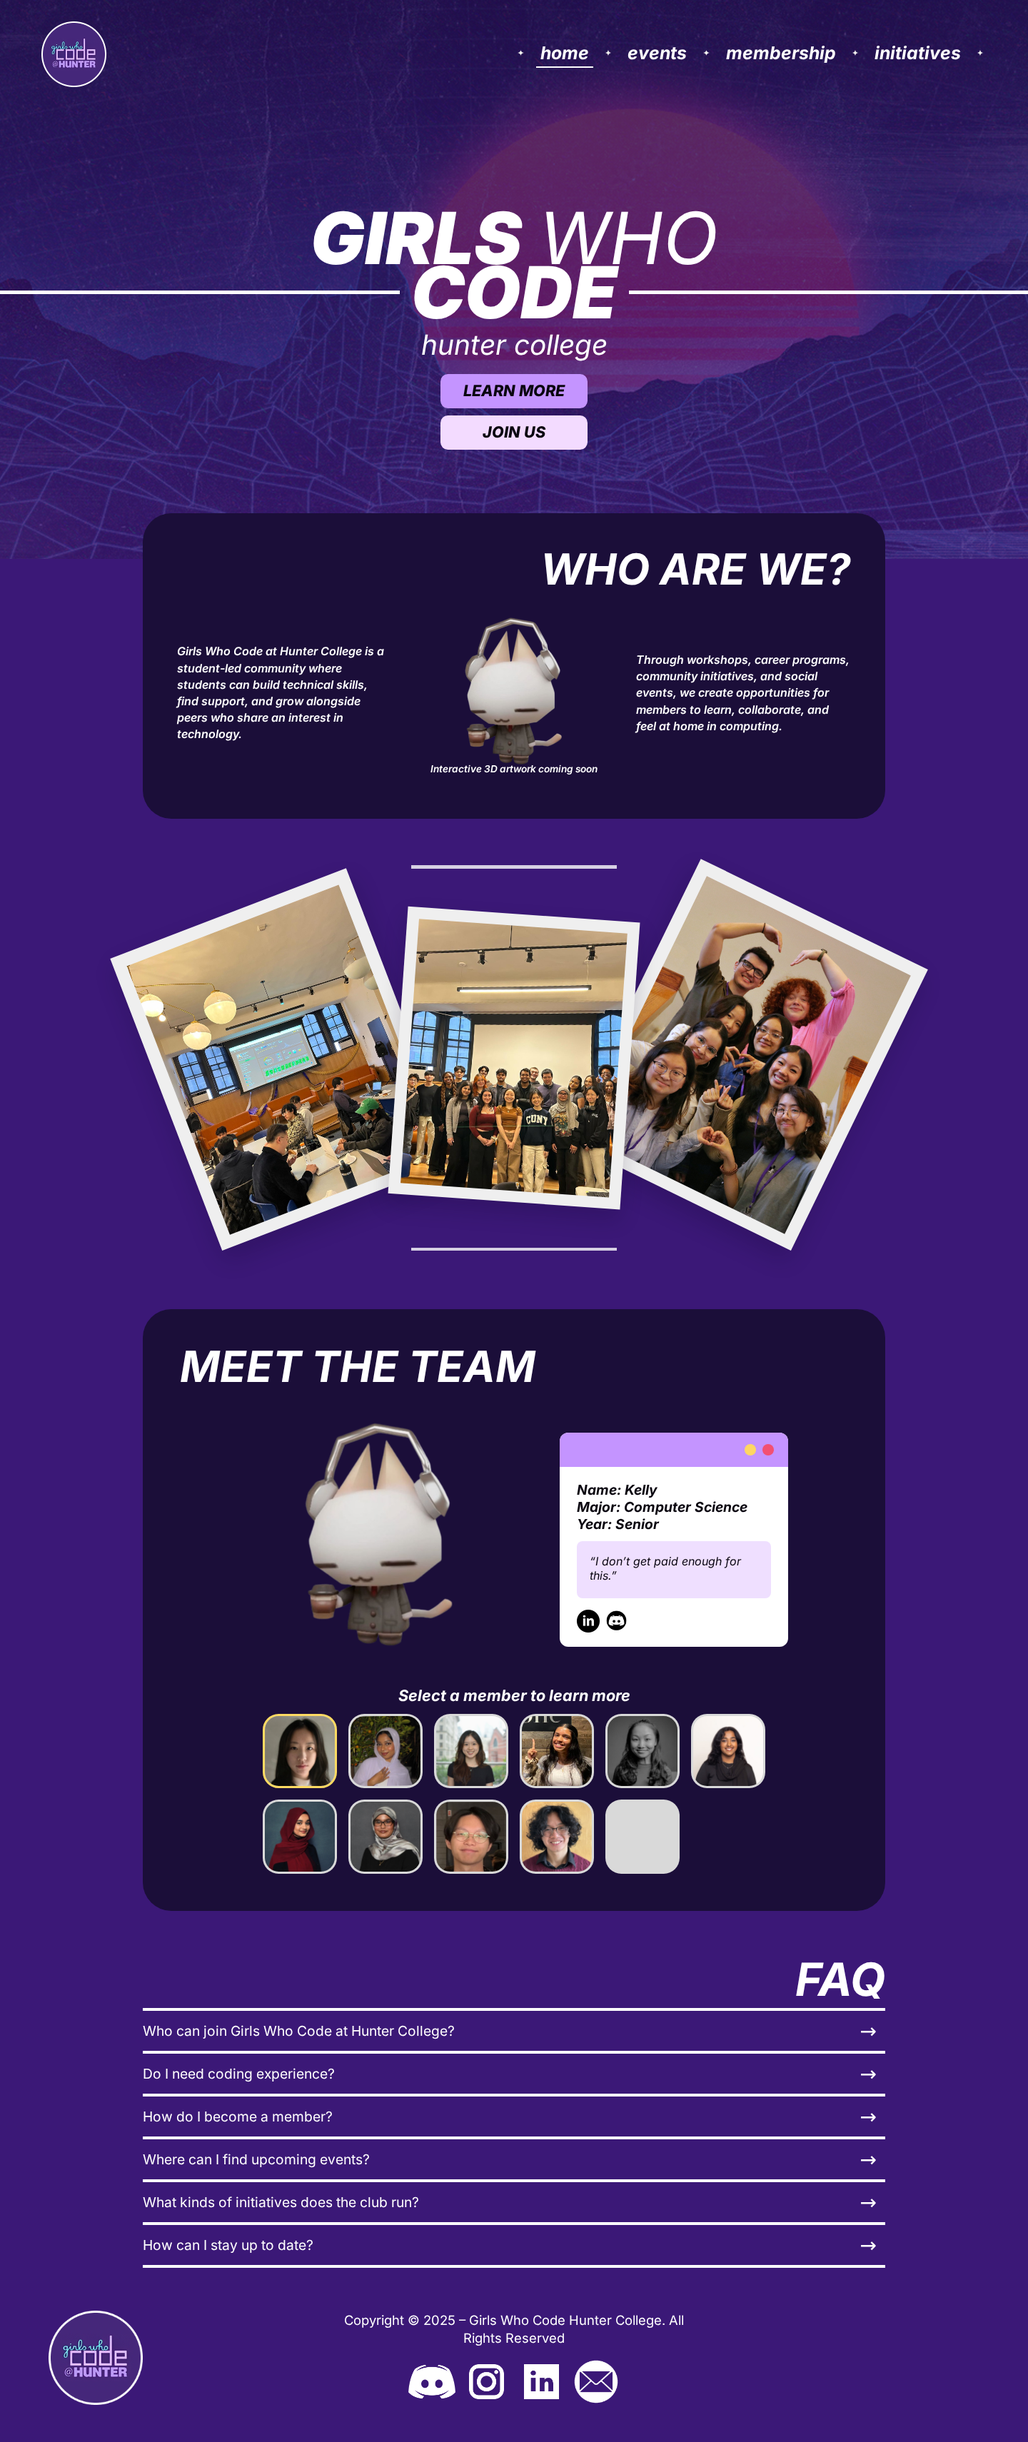
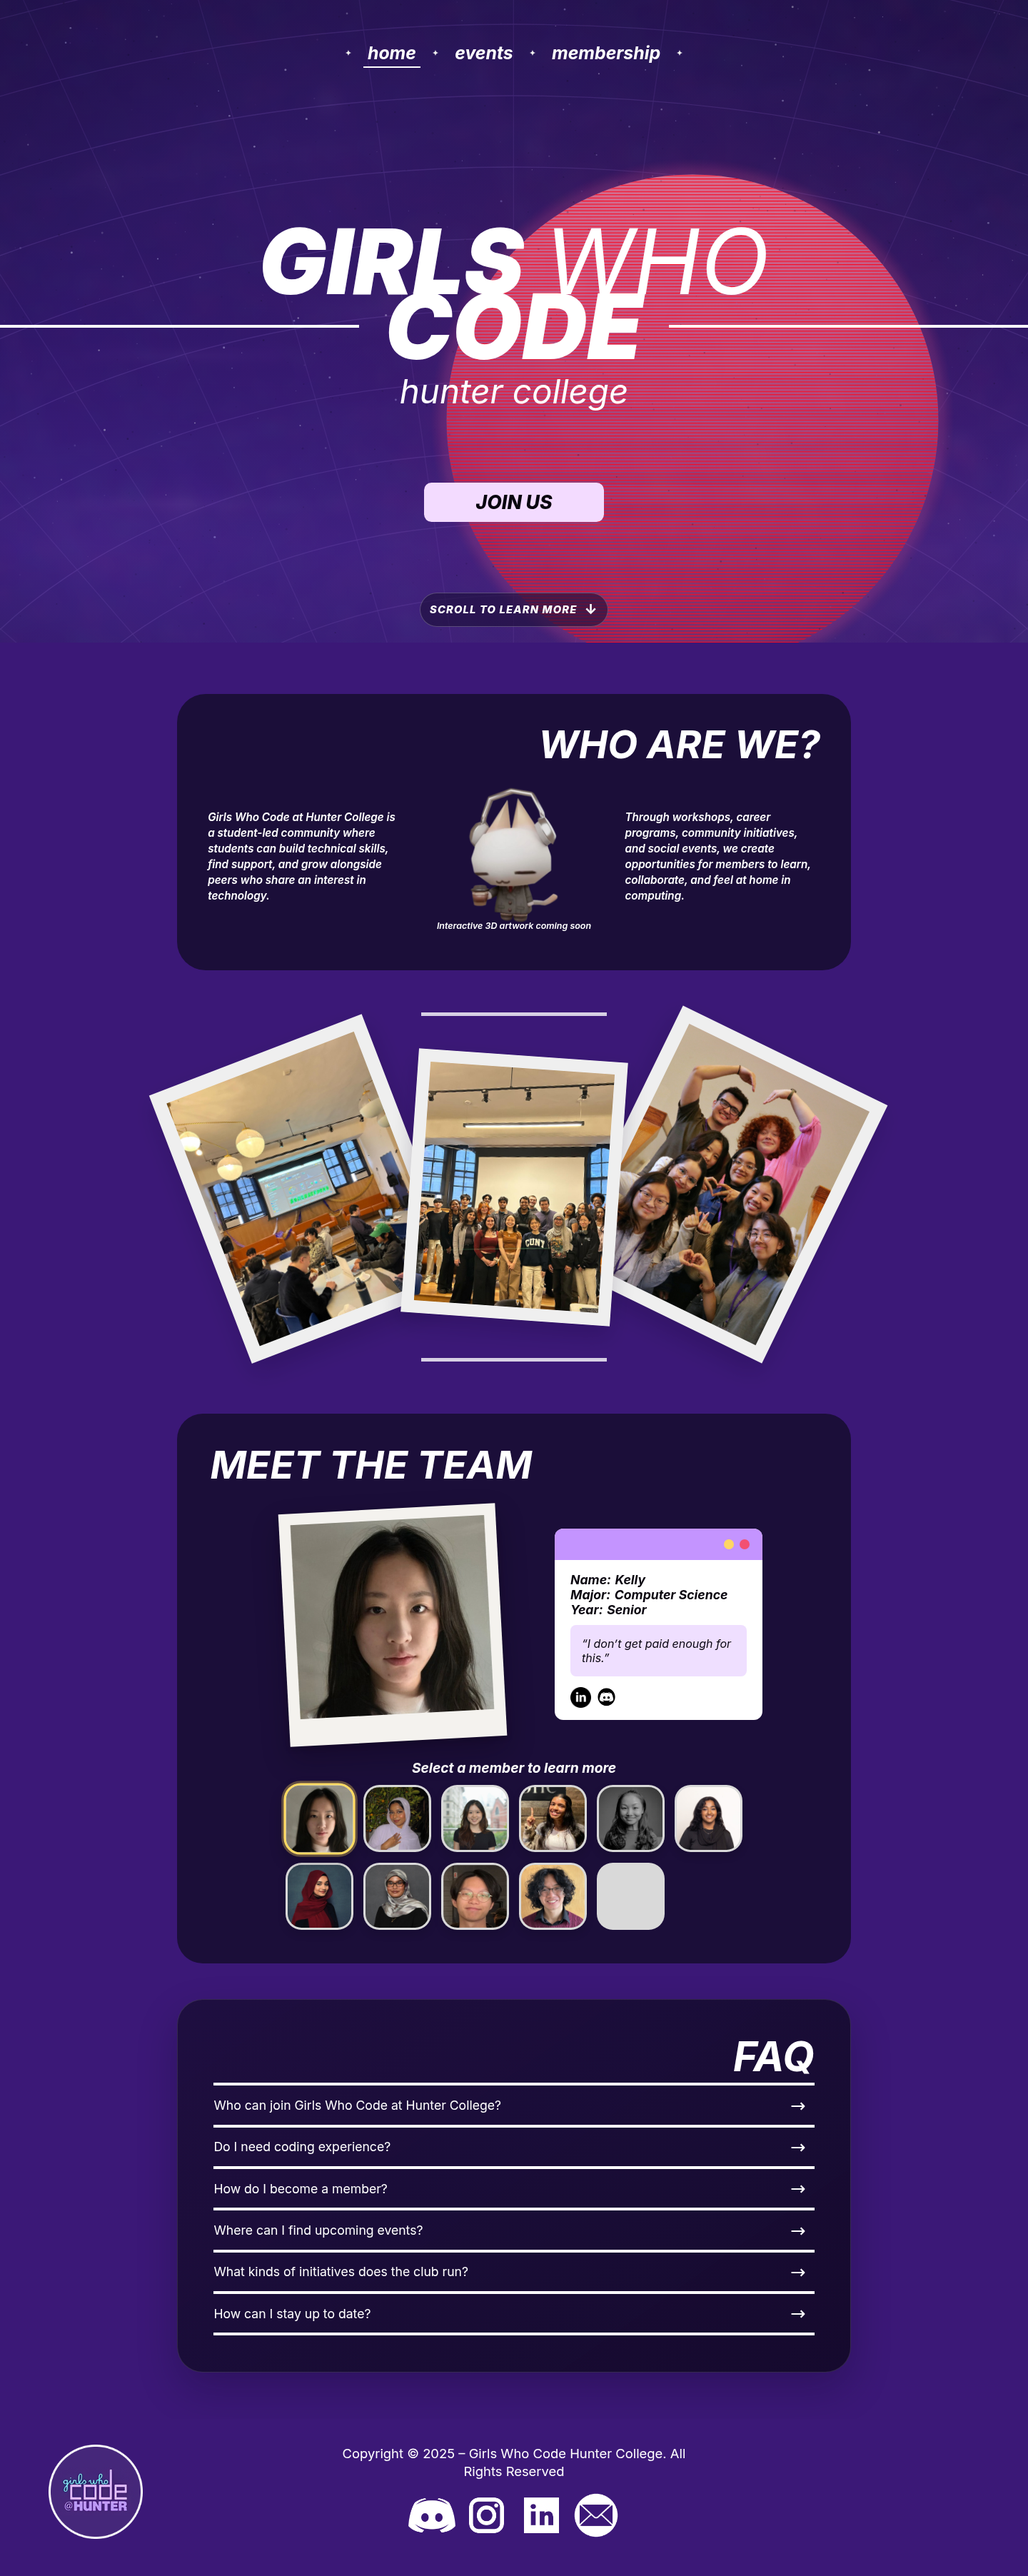
docs: refresh site documentation and screenshots (#31)

diff --git a/docs/ARCHITECTURE.md b/docs/ARCHITECTURE.md
@@ -32,6 +32,7 @@ There is no application server, API layer, database, authentication system, or g
 ├── src/
 │   ├── assets/              Images imported by React components
 │   ├── components/          Reusable site-wide UI
+│   ├── hooks/               Shared viewport and motion-preference hooks
 │   ├── pages/               Route-level features and their local data
 │   ├── App.tsx              Route tree
 │   ├── index.css            Global variables and base styles
@@ -56,13 +57,13 @@ The route tree is owned by `src/App.tsx`.
 
 | Path | Component | Responsibility |
 | --- | --- | --- |
-| `/` | `Home` | Hero, club introduction, community collage, interactive team directory, and FAQ |
-| `/membership` | `Membership` | Membership hero and frontend-only interest form |
+| `/` | `Home` | Redesigned hero, club introduction, interactive community gallery, team directory, and FAQ |
+| `/membership` | `Membership` | Work in Progress placeholder; the prior frontend-only form is retained in comments |
 | `/events` | `Events` | Work in Progress placeholder; the prior event hero is retained in comments |
-| `/initiatives` | `Initiatives` | Work in Progress placeholder; the prior initiative directory is retained in comments |
+| `/initiatives` | `Initiatives` | Direct-only Work in Progress route; the prior initiative directory is retained in comments |
 | `*` | `NotFound` | Friendly fallback for every unmatched route |
 
-Because the application uses `BrowserRouter`, the hosting layer must return `index.html` for client-side routes that do not correspond to physical files. That S3/CloudFront fallback behavior is implemented outside this repository.
+Because the application uses `BrowserRouter`, the hosting layer must return `index.html` for client-side routes that do not correspond to physical files. That fallback must be configured in the S3/CloudFront infrastructure outside this repository.
 
 ## Shared components
 
@@ -70,11 +71,14 @@ Because the application uses `BrowserRouter`, the hosting layer must return `ind
 | --- | --- | --- |
 | `SiteLayout` | `src/components/layouts/SiteLayout.tsx` | Wraps every route with the shared header, main landmark, and footer |
 | `Header` | `src/components/header/Header.tsx` | Provides the semantic site header and owns the navbar placement |
-| `Navbar` | `src/components/navbar/Navbar.tsx` | Renders route links, active states, logo navigation, and the responsive mobile menu |
+| `Navbar` | `src/components/navbar/Navbar.tsx` | Renders the centered Home, Events, and Membership links, active states, and responsive mobile menu |
 | `Footer` | `src/components/footer/Footer.tsx` | Renders club identity, copyright text, and social platform icons |
 | `Button` | `src/components/button/Button.tsx` | Typed shared button with primary and light variants; accepts native button props |
-| `PageHero` | `src/components/page-hero/PageHero.tsx` | Provides the shared background hero section while allowing page-specific layout classes |
-| `DecorativeArrow` | `src/components/decorative-arrow/DecorativeArrow.tsx` | Reuses the decorative arrow asset with intentionally empty alternative text |
+| `PageHero` | `src/components/page-hero/PageHero.tsx` | Provides shared hero structure while allowing Home and placeholder pages to supply their own presentation |
+| `HeroBrand` | `src/components/hero/HeroBrand.tsx` | Resolves static or animated brand variants and passes reduced-motion-aware presentation options |
+| `RetroSkyBackground` | `src/components/retro-sky-background/RetroSkyBackground.tsx` | Renders the fixed, decorative retro-sky SVG behind the redesigned Home page |
+| `PolaroidFrame` | `src/components/polaroid-frame/PolaroidFrame.tsx` | Provides the reusable framed-photo presentation used by the Home gallery and team section |
+| `DecorativeArrow` | `src/components/decorative-arrow/DecorativeArrow.tsx` | Retains the decorative arrow used by the preserved Membership and Initiatives designs |
 
 The shared components focus on repeated UI and semantic structure. Route-specific composition remains under `src/pages/`.
 
@@ -82,13 +86,17 @@ The shared components focus on repeated UI and semantic structure. Route-specifi
 
 ### Home
 
-`Home.tsx` composes the hero, Who Are We panel, community collage, team section, and FAQ. It uses a React ref to smoothly scroll from Learn More to the introduction and React Router's `useNavigate` hook for the Join Us action.
+`Home.tsx` composes a fixed retro-sky background, the versioned `HomeHero`, Who Are We panel, interactive community gallery, team section, and controlled FAQ accordion. The current `version-2-motion` hero uses the typographic brand treatment with CSS entrance and line motion, a Join Us action that navigates to Membership, and a reduced-motion-aware scroll cue into the introduction. A static hero configuration remains available in `HomeHero.tsx`.
 
-`TeamSection.tsx` owns local selection state for the team directory. The member records live in `teamMembers.ts`, while FAQ content lives in `homeData.ts`. `FutureThreeDPlaceholder.tsx` reserves the three-dimensional section for a later implementation.
+The retro-sky SVG supplies the grid, stars, glowing sun, and looping CRT scanlines. `usePrefersReducedMotion` disables nonessential movement when requested by the operating system.
+
+The Polaroid gallery uses `useInViewPair` to observe its two divider bars. It opens when both boundaries are visible or when a photo receives pointer hover or keyboard focus, and it cancels delayed state changes when visibility changes. Selecting a photo opens `GalleryModal`, a native dialog that locks background scrolling, supports backdrop and Escape dismissal, and restores focus to the opener.
+
+`TeamSection.tsx` owns local selection state for the team directory. The member records live in `teamMembers.ts`; only the first entry currently has complete metadata and the remaining profiles are placeholders. FAQ content lives in `homeData.ts`, and `FutureThreeDPlaceholder.tsx` reserves the three-dimensional section for a later implementation.
 
 ### Membership
 
-`Membership.tsx` renders a semantic HTML form with labeled required fields, a year selector, interest checkboxes, and comments. Submission is intercepted in the browser and produces an accessible toast-style confirmation message.
+The active component renders a Work in Progress message. The prior semantic membership form remains commented in `Membership.tsx` so it can be restored or connected to a real membership flow later.
 
 ### Events
 
@@ -107,7 +115,8 @@ The active component renders a Work in Progress message. The previous directory 
 - `src/index.css` defines global defaults, shared color variables, content widths, and page gutters.
 - Component and page styles use adjacent `.module.css` files to avoid global class-name collisions.
 - Layouts use flexible widths, `clamp()`, grid, flexbox, and scoped media queries.
-- The header is positioned over page content, and page heroes reserve enough top space for navigation.
+- The header is positioned over page content, and hero layouts reserve enough top space for the centered navigation.
+- Home layers its content above a fixed responsive SVG background; other active routes continue to use the shared textured page-hero treatment.
 - Imported files under `src/assets/` are fingerprinted by Vite. Files under `public/` retain root-relative names such as `/logo.png`.
 
 ## State and data
@@ -115,8 +124,10 @@ The active component renders a Work in Progress message. The previous directory 
 The application uses only local React state:
 
 - mobile navigation open/closed state in `Navbar`;
+- open FAQ, selected gallery photo, and Polaroid interaction state in `Home`;
 - selected team member state in `TeamSection`;
-- membership confirmation text in `Membership`.
+- paired divider visibility from `useInViewPair`;
+- the system motion preference exposed by `usePrefersReducedMotion`.
 
 Static page content is stored in typed local modules. There is no remote fetching or shared application store.
 
@@ -124,9 +135,11 @@ Static page content is stored in typed local modules. There is no remote fetchin
 
 - Semantic landmarks include `header`, `nav`, `main`, `section`, and `footer`.
 - Route and action controls use native links and buttons.
-- Form controls have explicit labels and required states.
 - Decorative images use empty alternative text and `aria-hidden` where appropriate.
 - Interactive team selections expose `aria-pressed`, and dynamic messages use live regions.
+- Community photos are keyboard-accessible dialog triggers, and the dialog restores focus after closing.
+- FAQ controls expose their expanded state and connect each question to its answer panel.
+- Reduced-motion preferences suppress or shorten nonessential animation and smooth scrolling.
 - Heading relationships use IDs and `aria-labelledby` on major sections.
 
 ## Adding a page

diff --git a/docs/PAGES.md b/docs/PAGES.md
@@ -1,14 +1,14 @@
 # Page gallery
 
-These reference images were captured locally at a 1440px desktop width on August 28, 2026. They document the complete frontend presentation rather than a production data state.
+These reference images were captured locally with a 1440 × 900 desktop viewport on August 31, 2026. Reduced motion was enabled so animated elements appear in a deterministic final state. The images document the current frontend presentation rather than a production data state.
 
-Events and Initiatives currently show Work in Progress placeholders. Their images below were captured from the complete implementations preserved in their source files, as requested, so the designs remain available for future development.
+Home is the completed landing experience. Events, Membership, and Initiatives currently show Work in Progress placeholders; their previous implementations remain preserved in source comments for future development.
 
 ## Home
 
 Route: `/`
 
-The Home page introduces the club, provides direct Learn More and Join Us actions, explains the community, shows event photography, presents an interactive member directory, and ends with frequently asked questions.
+The redesigned Home page combines a full-viewport hero with the fixed retro sky, glowing CRT sun, refined Girls Who Code @ Hunter presentation, Join Us action, and Scroll to Learn More cue. The page continues through the Who Are We introduction, a viewport- and hover-triggered Polaroid gallery with full-size photo dialogs, an interactive team directory, and an FAQ accordion.
 
 ![Full Home page](screenshots/home.png)
 
@@ -16,30 +16,46 @@ The Home page introduces the club, provides direct Learn More and Join Us action
 
 Route: `/membership`
 
-The Membership page combines the member hero and the entire responsive form. The page handles validation in the browser and shows a confirmation message, but it does not persist or transmit submission data.
+The active Membership route currently displays a Work in Progress page. Its previous frontend-only form remains preserved in source comments but is not rendered or connected to submissions.
 
-![Full Membership page](screenshots/membership.png)
+![Current Membership page](screenshots/membership.png)
 
-## Events — preserved full design
+## Events
 
 Route: `/events`
 
-The preserved Events design presents a configurable featured-event title, schedule, and RSVP action. The active route currently replaces this view with a Work in Progress page until real event data becomes available.
+The active Events route displays a Work in Progress page until current event data and RSVP behavior are ready.
 
-![Preserved Events page design](screenshots/events-full-design.png)
+![Current Events page](screenshots/events.png)
 
-## Initiatives — preserved full design
+## Initiatives
 
 Route: `/initiatives`
 
-The preserved Initiatives design contains a hero, category chips, and a typed card grid for four student programs. The active route currently replaces this directory with a Work in Progress page until the directory is ready to launch.
+The active Initiatives route displays a Work in Progress page. It remains directly accessible for development and future use but is currently omitted from primary navigation.
 
-![Preserved Initiatives page design](screenshots/initiatives-full-design.png)
+![Current Initiatives page](screenshots/initiatives.png)
 
 ## Not Found
 
 Route: any unmatched URL
 
-The fallback page keeps the shared navigation and footer and provides a clear return path to Home.
+The fallback page keeps the shared centered navigation and footer and provides a clear return path to Home.
 
 ![Not Found page](screenshots/not-found.png)
+
+## Preserved design references
+
+The following historical screenshots show the complete Events and Initiatives implementations retained in source comments. They were captured on August 28, 2026 and include the older shared navigation, so they are references rather than current route previews.
+
+### Events — preserved full design
+
+The preserved Events design presents a configurable featured-event title, schedule, and RSVP action.
+
+![Preserved Events page design](screenshots/events-full-design.png)
+
+### Initiatives — preserved full design
+
+The preserved Initiatives design contains a hero, category chips, and a typed card grid for four student programs.
+
+![Preserved Initiatives page design](screenshots/initiatives-full-design.png)

diff --git a/README.md b/README.md
@@ -1,8 +1,8 @@
 # Girls Who Code at Hunter College
 
-The Girls Who Code at Hunter College website is a responsive React single-page application for introducing the club, presenting its community, and collecting prospective member interest.
+The Girls Who Code at Hunter College website is a responsive React single-page application for introducing the club, presenting its community, and guiding prospective members toward future participation.
 
-This repository contains the frontend application. Home and Membership are fully presented, while Events and Initiatives intentionally display Work in Progress pages. Their complete designs remain preserved in their page source files for future use.
+This repository contains the frontend application. The redesigned Home page is fully presented, while Membership, Events, and Initiatives intentionally display Work in Progress pages. Their previous implementations remain preserved in comments in their page source files for future use.
 
 ## Technology
 
@@ -40,10 +40,10 @@ The build command type-checks the project and writes the production bundle to `d
 
 | Route | Page | Status |
 | --- | --- | --- |
-| `/` | Home | Available |
-| `/membership` | Membership | Available; the form is frontend-only |
-| `/events` | Events | Work in Progress placeholder |
-| `/initiatives` | Initiatives | Work in Progress placeholder |
+| `/` | Home | Available; redesigned landing experience |
+| `/membership` | Membership | Work in Progress placeholder; the prior frontend form is retained in source comments |
+| `/events` | Events | Work in Progress placeholder; the prior featured-event design is retained in source comments |
+| `/initiatives` | Initiatives | Work in Progress placeholder; directly routable but omitted from primary navigation |
 | Any unmatched path | Not Found | Available |
 
 ## Documentation
@@ -59,9 +59,11 @@ The build command type-checks the project and writes the production bundle to `d
 
 ## Current limitations
 
-- The Membership form confirms submission only in the browser and does not send or store data.
+- The Join Us action currently opens the Work in Progress Membership route; no active membership form or submission flow is connected.
+- Events, Membership, and Initiatives are hidden behind temporary placeholders while their prior implementations remain preserved in their page source files.
+- The team directory still needs the current member list and complete profile data; only the first profile currently has final metadata.
+- The Home introduction contains a placeholder for planned interactive three-dimensional artwork.
 - Social icons are presentational and do not yet link to club accounts.
-- Events and Initiatives are hidden behind temporary placeholders while their implementations remain preserved in their page source files.
 - Infrastructure configuration lives outside this repository; the repository contains deployment workflows only.
 
 ## License
